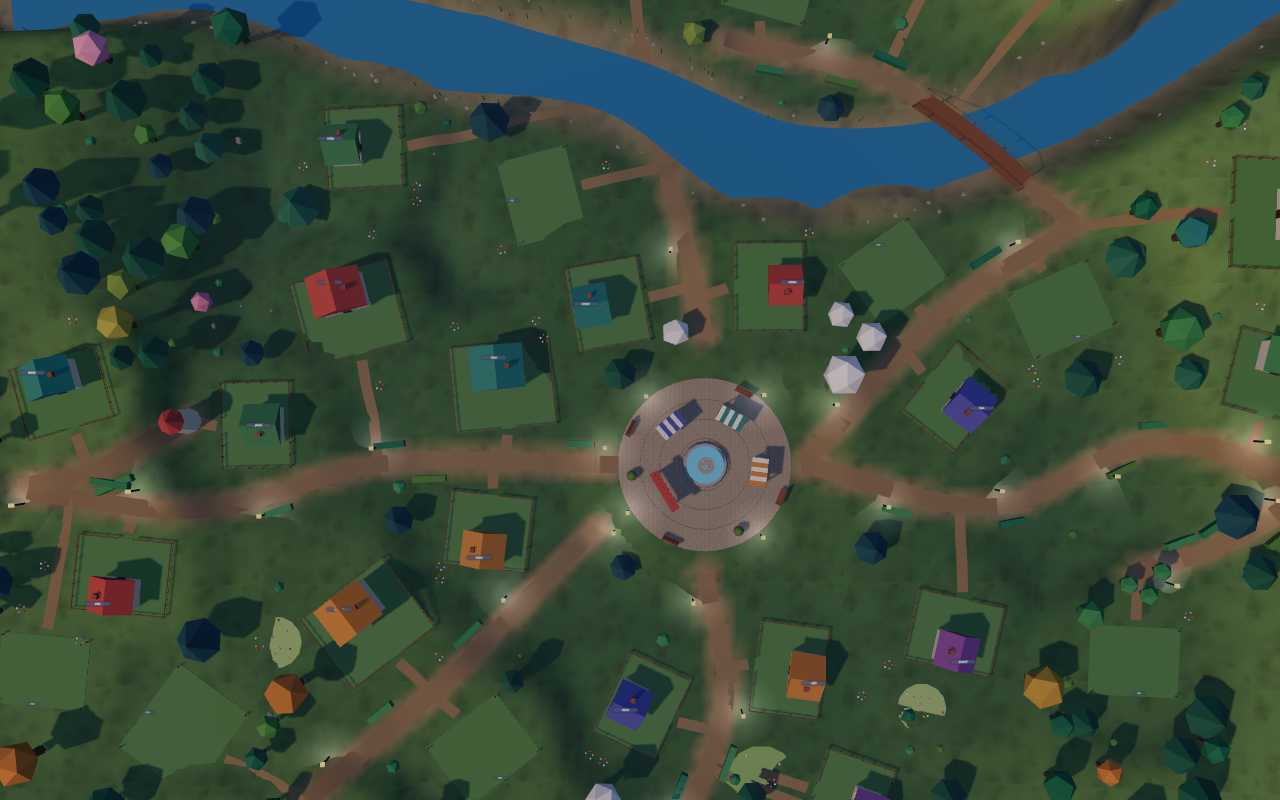
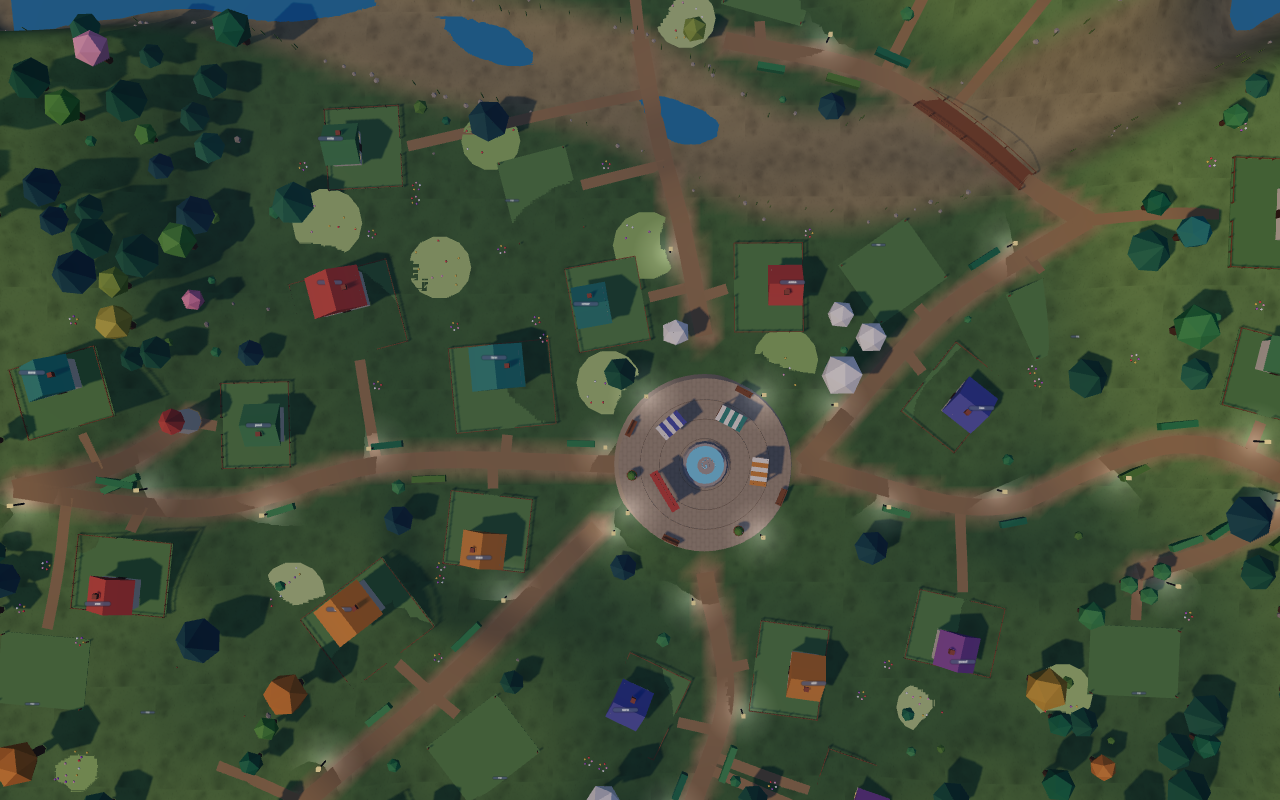
L.5 Böschungen: Einebnung breiter an steilen Hängen
Befund 8: Die Rampe um ein Grundstück wird bis 14 m breit, wenn der Hang stärker ist.

diff --git a/web/tests/world/embankment.test.ts b/web/tests/world/embankment.test.ts
@@ -1,0 +1,37 @@
+import { describe, it, expect } from 'vitest';
+import { buildLayout } from '../../src/world/layout';
+import { MAP_IDS } from '../../src/world/maps';
+
+// Review befund 8: plots on slopes are levelled with embankments, and these must not be steep.
+// The steepest slope in the 6 m ring around each plot, in metres of height per metre of ground.
+function steepestRing(layout: ReturnType<typeof buildLayout>): number[] {
+  const out: number[] = [];
+  for (const p of layout.plots) {
+    let worst = 0;
+    for (let k = 0; k < 16; k++) {
+      const a = (k / 16) * Math.PI * 2;
+      for (let d = p.rad + 1; d < p.rad + 6; d += 0.5) {
+        const x = p.x + Math.cos(a) * d;
+        const z = p.z + Math.sin(a) * d;
+        if (layout.terrain.riverDistance(x, z) < 7) continue;
+        const g = Math.abs(
+          layout.terrain.groundHeight(x + Math.cos(a) * 0.5, z + Math.sin(a) * 0.5) -
+            layout.terrain.groundHeight(x, z),
+        );
+        worst = Math.max(worst, g / 0.5);
+      }
+    }
+    out.push(worst);
+  }
+  return out;
+}
+
+for (const mapId of MAP_IDS) {
+  describe(`embankments on ${mapId}`, () => {
+    it('plot embankments stay gentle: no steeper than 1.2 m per m (measured max 1.1)', () => {
+      const layout = buildLayout(11, 34, mapId);
+      const worst = steepestRing(layout);
+      expect(Math.max(...worst)).toBeLessThan(1.2);
+    });
+  });
+}

diff --git a/web/src/world/layout.ts b/web/src/world/layout.ts
@@ -146,7 +146,13 @@ function scatterPlots(rng: Rng, nPlots: number, terrain: Terrain, samples: Point
   }
   return plots.map((p, index) => {
     const h = Math.max(0.5, terrain.naturalHeight(p.x, p.z));
-    terrain.flats.push({ x: p.x, z: p.z, r: p.rad + 0.6, h });
+    terrain.flats.push({
+      x: p.x,
+      z: p.z,
+      r: p.rad + 0.6,
+      h,
+      ramp: embankmentWidth(terrain, p.x, p.z, p.rad + 0.6, h),
+    });
     return {
       ...p,
       index,
@@ -180,6 +186,20 @@ function orientPlot(plot: Plot, rng: Rng, samples: Point2[]): void {
   });
   plot.gate = toWorld(0, plot.d / 2 + 0.6);
   plot.door = toWorld(0, -plot.d / 2 + 2.5);
+}
+
+/**
+ * Width of the embankment around a levelled plot: 4 m on flat ground, up to 14 m where the natural
+ * ground at 4 m beyond the edge differs by more than 1 m (LOOK §4, review befund 8).
+ */
+function embankmentWidth(terrain: Terrain, x: number, z: number, r: number, h: number): number {
+  let spread = 0;
+  for (let k = 0; k < 8; k++) {
+    const a = (k / 8) * Math.PI * 2;
+    const d = r + 4;
+    spread = Math.max(spread, Math.abs(terrain.naturalHeight(x + Math.cos(a) * d, z + Math.sin(a) * d) - h));
+  }
+  return Math.min(14, Math.max(4, 4 + (spread - 1) * 4));
 }
 
 function findBridges(terrain: Terrain, laneCurves: THREE.CatmullRomCurve3[]): Bridge[] {

diff --git a/web/src/world/terrain.ts b/web/src/world/terrain.ts
@@ -10,6 +10,8 @@ export interface Flat {
   z: number;
   r: number;
   h: number;
+  /** Width of the embankment beyond r, in metres. Steeper slopes get a longer, gentler ramp (befund 8). */
+  ramp?: number;
 }
 
 /** River centre line: centripetal Catmull-Rom through the control points, sampled evenly. */
@@ -123,7 +125,8 @@ export class Terrain {
     let v = this.pathBlend(x, z, this.carvedHeight(x, z));
     for (const f of this.flats) {
       const d = Math.hypot(x - f.x, z - f.z);
-      if (d < f.r + 4) v = lerp(v, f.h, smooth(f.r + 4, f.r, d));
+      const ramp = f.ramp ?? 4;
+      if (d < f.r + ramp) v = lerp(v, f.h, smooth(f.r + ramp, f.r, d));
     }
     return v;
   }

diff --git a/docs/PLAN.md b/docs/PLAN.md
@@ -56,7 +56,7 @@ Ziel: 8a und 8b sind sauber getrennte Instanzen (SPEC §1a), und das Dorf sieht 
 | [x] L.2 | CC | **Kartenvorlagen**: Fluss, Wege, Platz, Wahrzeichen und Hügel als Vorlage-Datei; 3 deutlich verschiedene Vorlagen; Vorlage per `classes.map_id` (aus I.1) und `set_layout`-RPC (Vorlage + Seed) | `world/maps/*.ts` | 8a/8b in der Galerie klar unterscheidbar |
 | [~] L.3 | CC | **Gelände, Wege, Fluss**: höhere Auflösung im Talboden, Wege und Platz als Vertex-Farbe/Splat ins Gelände, Gelände unter Wegen glätten, Flussbreite variabel, Ufer sauber unter Wasser, Ufersteine | `world/terrain.ts`, `render/terrain.ts` | keine Zacken/Durchstechen in Galerie-Nahaufnahmen (Befunde 4, 5) |
 | [~] L.4 | CC | **Wegenetz**: Hierarchie (2,2 / 1,5 / 1,0 m), keine Sackgassen, Wahrzeichen an Wegenden als Ziele im Wegegraph, Brücken mit Geländer und Rampen | `world/layout.ts`, `render/bridges.ts` | Vitest „keine Sackgassen“, „Wahrzeichen erreichbar“ grün (Befunde 6, 9) |
-| [ ] L.5 | CC | **Grundstücke**: Vergabe von innen nach außen (`plot_index` nach Wegstrecke), Hangregel, kurze Böschungen, Gartenweg ins Wegenetz, Zaun mit Pfosten und Tor, Haus mit Tür/Fenstern/Satteldach im Grundstück, **freie Plätze als Bauplatz** | `world/plots.ts`, `render/plots.ts`; Edge Function vergibt weiter den nächsten freien Index | Vitest für Reihenfolge und Hangregel; Galerie-Nahaufnahme ok (Befunde 7, 8, 11) |
+| [~] L.5 | CC | **Grundstücke**: Vergabe von innen nach außen (`plot_index` nach Wegstrecke), Hangregel, kurze Böschungen, Gartenweg ins Wegenetz, Zaun mit Pfosten und Tor, Haus mit Tür/Fenstern/Satteldach im Grundstück, **freie Plätze als Bauplatz** | `world/plots.ts`, `render/plots.ts`; Edge Function vergibt weiter den nächsten freien Index | Vitest für Reihenfolge und Hangregel; Galerie-Nahaufnahme ok (Befunde 7, 8, 11) |
 | [~] L.6 | CC | **Vegetation und Details**: Poisson-Disk-Verteilung, Waldgürtel, Baumgruppen, Büsche, Hecken, Blumenwiesen, Felsen, Schilf; Mengen nach SPEC §10.6 | `world/scatter.ts`, `render/nature.ts` (InstancedMesh) | Vitest „nichts auf Wegen/Plätzen/Grundstücken/Wasser“, Mengen im Rahmen (Befund 1) |
 | [ ] L.7 | CC | **Marktplatz und Licht**: Pflaster mit Ringmuster, Brunnen, Aufgabentafel zum Hauptzugang, 3 Stände, 4 Bänke, Kübel, Laternen an Wegen, leuchtende Fenster, Lichtflecken, Abendstimmung wie Prototyp | `render/plaza.ts`, `render/lights.ts` | Galerie-Bild Marktplatz vergleichbar mit Prototyp (Befunde 2, 3) |
 | [~] L.8 | CC | **Namen und Figuren**: keine Schilder an fremden Häusern, Figuren-Schilder ab ~30 m ausblenden, Name beim Antippen; Ziele der Figuren gleichmäßiger verteilen (Wahrzeichen, Häuser von Freunden), max. 3 an der Tafel | `render/crowd.ts`, `avatars/behaviour.ts` | Galerie-Übersicht ruhig lesbar; < 40 % der Figuren gleichzeitig am Platz (Befunde 12, 14) |
@@ -232,4 +232,5 @@ Ziel: Schüler kaufen Deko und gestalten ihr Grundstück; Mitschüler sehen es.
 | 17.10.2026 | L.3 Wegglättung | Das Gelände unter den Wegen wird geglättet: die Höhe entlang jedes Weges wird über etwa 8 m gemittelt, das Gelände bis 2,6 m daneben zieht dorthin (`setPaths`/`pathBlend` in `world/terrain.ts`, aufgerufen in `world/layout.ts`). Ufer nahe am Fluss ausgenommen. Vitest `tests/world/paths.test.ts`: Gelände 0,8 m neben dem Weg max. 0,6 m Höhenunterschied (Toleranz nach Messung angehoben, siehe Hinweis). 261 Tests grün |
 | 17.10.2026 | Kirschblüten | Runde Bäume in Obstgarten-Flecken und einzelne Bäume blühen weiß bis rosa (`BLOSSOMS` in `render/nature.ts`). Nadelbäume bleiben grün. Offen: Blüten kräftiger, mehr Flecken |
 | 17.10.2026 | Brücken auf dem Boden | Jede Brücke hat eine Höhe je Ufer (`ya`, `yb` in `world/layout.ts`); der Bogen liegt darüber (`bridgeHeight`). Deck, Geländer und Figuren nutzen dieselbe Funktion, damit nichts schwebt. Figuren steigen auf dem Bogen mit. Vitest und Galerie geprüft |
+| 17.10.2026 | L.5 Böschungen | Die Einebnung eines Grundstücks wird breiter, wenn der Hang stärker ist: 4 m auf ebenem Boden, bis 14 m bei starkem Gefälle (`embankmentWidth` in `world/layout.ts`, `Flat.ramp` in `world/terrain.ts`). Steilste Stelle im Ring um die Grundstücke: vorher bis 1,8 m pro m, jetzt 0,86–1,10 m pro m. Vitest `tests/world/embankment.test.ts` (Grenze 1,2). Offen: einzelne keilförmige Grundstücke am Hang in der Draufsicht, freie Plätze als Bauplatz, Vergabe von innen nach außen prüfen |
 | 17.10.2026 | Wege abwechslungsreicher | Erde-Textur mit warmen Flecken, Sandstellen und Grasresten am Rand; Wegfarbe mit Helligkeitsrauschen und leicht zertretenem Gras am Wegrand (`render/textures.ts`, `render/village.ts`). Galerie geprüft |
